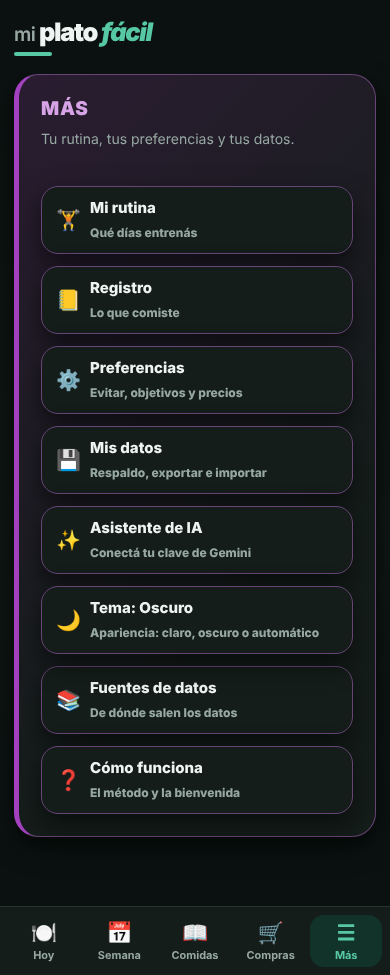
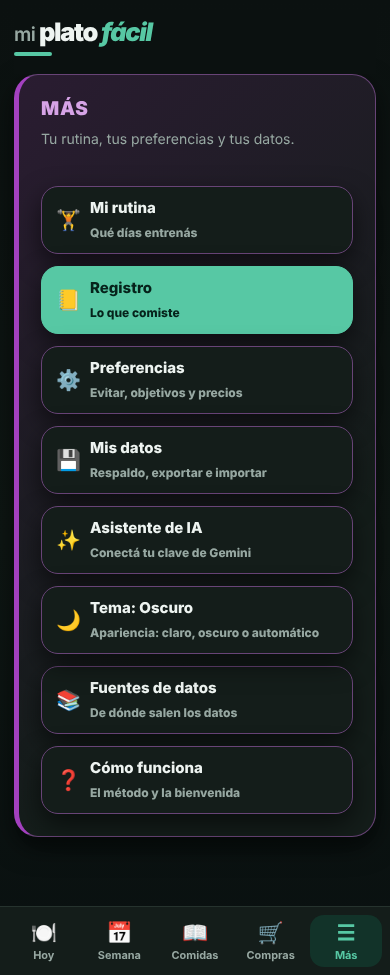
Etapa 53: principal de Compras fija y Más en verde
Claude-Session: https://claude.ai/code/session_013apjtg9s7WhVBtjMzXPnF4

Changed region(s): [[0.0923, 0.2462, 0.9231, 0.3692]]

diff --git a/fuente/estilos.css b/fuente/estilos.css
@@ -3820,8 +3820,10 @@ body:has(#gustoPregunta:not(.gusto-pregunta--cocina)){padding-bottom:72px}
 #ticketCargar{margin-top:8px}
 .ticket-fila{border:1px solid var(--line);border-radius:12px;padding:8px;margin:8px 0}
 /* Etapa 53: una sola acción principal por pestaña (Más: Registro). */
-.tool-button--primary,.tool-button--primary .tool-button__label,.tool-button--primary .tool-button__desc{background:var(--green);border-color:var(--green);color:var(--on-green)}
-.tool-button--primary .tool-button__label,.tool-button--primary .tool-button__desc{background:none}
+#home .tool-button.tool-button--primary,[data-theme="dark"] #home .tool-button.tool-button--primary,#home[data-home-tab="mas"] .tool-button.tool-button--primary{background:var(--green)!important;border-color:var(--green)!important;color:var(--on-green)!important}
+#home .tool-button.tool-button--primary .tool-button__label,#home .tool-button.tool-button--primary .tool-button__desc,#home .tool-button.tool-button--primary .tool-button__emoji{color:var(--on-green)!important;background:none!important}
+/* Compras: "Terminé de comprar" queda a la vista, fijo arriba de la barra de pestañas, mientras se recorre la lista. */
+#comprasBoughtBox{position:sticky;bottom:calc(var(--section-nav-h,76px) + 8px);z-index:6;padding:8px 0;background:linear-gradient(to top,var(--bg) 70%,transparent)}
 .hoy-aviso--comprar{display:flex;flex-wrap:wrap;align-items:center;gap:8px}
 .hoy-aviso--comprar .hoy-aviso__texto{flex:1 1 100%;min-width:0;overflow-wrap:anywhere}
 .hoy-aviso--comprar .button{flex:1 1 100%;max-width:100%}

diff --git a/index.html b/index.html
@@ -3821,8 +3821,10 @@ body:has(#gustoPregunta:not(.gusto-pregunta--cocina)){padding-bottom:72px}
 #ticketCargar{margin-top:8px}
 .ticket-fila{border:1px solid var(--line);border-radius:12px;padding:8px;margin:8px 0}
 /* Etapa 53: una sola acción principal por pestaña (Más: Registro). */
-.tool-button--primary,.tool-button--primary .tool-button__label,.tool-button--primary .tool-button__desc{background:var(--green);border-color:var(--green);color:var(--on-green)}
-.tool-button--primary .tool-button__label,.tool-button--primary .tool-button__desc{background:none}
+#home .tool-button.tool-button--primary,[data-theme="dark"] #home .tool-button.tool-button--primary,#home[data-home-tab="mas"] .tool-button.tool-button--primary{background:var(--green)!important;border-color:var(--green)!important;color:var(--on-green)!important}
+#home .tool-button.tool-button--primary .tool-button__label,#home .tool-button.tool-button--primary .tool-button__desc,#home .tool-button.tool-button--primary .tool-button__emoji{color:var(--on-green)!important;background:none!important}
+/* Compras: "Terminé de comprar" queda a la vista, fijo arriba de la barra de pestañas, mientras se recorre la lista. */
+#comprasBoughtBox{position:sticky;bottom:calc(var(--section-nav-h,76px) + 8px);z-index:6;padding:8px 0;background:linear-gradient(to top,var(--bg) 70%,transparent)}
 .hoy-aviso--comprar{display:flex;flex-wrap:wrap;align-items:center;gap:8px}
 .hoy-aviso--comprar .hoy-aviso__texto{flex:1 1 100%;min-width:0;overflow-wrap:anywhere}
 .hoy-aviso--comprar .button{flex:1 1 100%;max-width:100%}

diff --git a/pruebas/r6e53_orden.js b/pruebas/r6e53_orden.js
@@ -77,6 +77,11 @@
     ok(`R6-O-03 (${estado}) la acción principal mide al menos 44 px de alto`, TABS.every(([n]) => r[n].alto.every(h => h >= 43.5)), JSON.stringify(Object.fromEntries(TABS.map(([n]) => [n, r[n].alto]))));
     ok(`R6-O-04 (${estado}) no se eliminó ninguna función: la cantidad de botones de cada pestaña es la de antes (` + TABS.map(([n]) => n + " " + ANTES[estado][n]).join(", ") + ")", TABS.every(([n]) => r[n].botones === ANTES[estado][n]), JSON.stringify(Object.fromEntries(TABS.map(([n]) => [n, r[n].botones]))));
   }
+  // Compras: el botón principal va fijo arriba de la barra de pestañas (a la vista al abrir, sin bajar 3.000 px)
+  await H.abrirEn("2026-11-24", normal());
+  ev('openTab("compras")'); await espera(500);
+  const fijo = H.w().getComputedStyle($("comprasBoughtBox")).position, r = $("comprasBought").getBoundingClientRect();
+  ok("R6-O-03 en Compras 'Terminé de comprar' queda fijo (sticky) arriba de la barra de pestañas: a la vista al abrir aunque la lista sea larga", fijo === "sticky" && r.height >= 43.5 && r.bottom <= H.w().innerHeight && r.top >= 0, JSON.stringify([fijo, Math.round(r.top), Math.round(r.bottom), H.w().innerHeight]));
   // Semana con la pregunta de la semana nueva: solo "Repetir el plan" es principal
   await H.abrirEn("2026-11-30", normal());
   ev('openTab("semana")'); await espera(500);

diff --git a/docs/plan-rediseno.md b/docs/plan-rediseno.md
@@ -3422,9 +3422,10 @@ Rama `rediseno-6-etapa-52-ticket`. Ítems: T-01 a T-06 (solo con clave de Gemini
 
 #### Etapa 53 · Orden y limpieza (v20.8.0)
 Rama `rediseno-6-etapa-53-orden`. Ítems: O-01 a O-04.
-- Plan corto: `fuente/estilos.css` (el título del calendario ya no usa `text-transform: capitalize`), `38-selector-de-comida.js` (Recientes primero y el resto en Mis comidas), `31-hoy.js` (la acción principal de Hoy), `10-plan-semanal.js` (Semana con la pregunta de la semana nueva), `01-home.html` (Más) y la prueba nueva `pruebas/r6e53_orden.js` (14 pruebas). No toca claves ni datos.
+- Plan corto: `fuente/estilos.css` (el título del calendario ya no usa `text-transform: capitalize`), `38-selector-de-comida.js` (Recientes primero y el resto en Mis comidas), `31-hoy.js` (la acción principal de Hoy), `10-plan-semanal.js` (Semana con la pregunta de la semana nueva), `01-home.html` (Más) y la prueba nueva `pruebas/r6e53_orden.js` (15 pruebas). No toca claves ni datos.
 - ✅ R6-O-01: el calendario de entrenamiento decía "Noviembre De 2026" (el CSS ponía mayúscula a cada palabra); ahora dice "noviembre de 2026". La prueba recorre el texto visible de Hoy, Semana, Comidas, Compras, Más, el calendario, el Registro, Preferencias y el plan mensual (con `text-transform: capitalize` aplicado, como se ve en pantalla) y busca un mes con mayúscula en medio de una fecha y "De", "Del" o "Al" con mayúscula después de otra palabra: ninguno. Los encabezados que van en mayúsculas por diseño (como "HOY · MARTES, 24 DE NOVIEMBRE") no cuentan. La app ya escribía "Semana del 23/11/2026 al 29/11/2026" y "24 de noviembre" bien.
 - ✅ R6-O-02: al elegir o cambiar una comida, Recientes (4) va primero y Mis comidas y Mis recetas muestran solo el resto; con una búsqueda Recientes se esconde y cada comida sale una vez. Con 4 comidas o menos no hay Recientes. Sin más comidas que las recientes, Mis comidas dice "No hay más comidas guardadas de este tipo.".
-- ✅ R6-O-03: una sola acción principal (botón verde lleno, 44 px o más) a la vista al abrir cada pestaña. Propuesta, con captura de cada una (`principal-hoy`, `principal-semana`, `principal-comidas`, `principal-compras`, `principal-mas`): **Hoy**, "Lo comí" de la primera comida por anotar (pasa a la siguiente al anotarla; sin comidas ese día, "Elegir" el almuerzo); **Semana**, "Armame la semana" (con la semana completa pasa a "Rehacer semana", secundario, como desde la Etapa 24; con la pregunta "¿Repetís el plan o empezás de cero?", solo "Repetir el plan" es principal y "Armame la semana" pasa a secundario); **Comidas**, "+ Nueva"; **Compras**, "Terminé de comprar" (sin lista, "Armar mi semana"); **Más**, "Registro" (el mosaico va en verde lleno). Lo demás queda secundario. Antes: Hoy no tenía ninguna principal (con datos) y Más tampoco.
+- ✅ R6-O-03: una sola acción principal (botón verde lleno, 44 px o más) a la vista al abrir cada pestaña. Propuesta, con captura de cada una (`principal-hoy`, `principal-semana`, `principal-comidas`, `principal-compras`, `principal-mas`): **Hoy**, "Lo comí" de la primera comida por anotar (pasa a la siguiente al anotarla; sin comidas ese día, "Elegir" el almuerzo); **Semana**, "Armame la semana" (con la semana completa pasa a "Rehacer semana", secundario, como desde la Etapa 24; con la pregunta "¿Repetís el plan o empezás de cero?", solo "Repetir el plan" es principal y "Armame la semana" pasa a secundario); **Comidas**, "+ Nueva"; **Compras**, "Terminé de comprar" (queda fijo arriba de la barra de pestañas mientras se recorre la lista: sin esto estaba al final de una página de más de 3.000 px; sin lista, "Armar mi semana"); **Más**, "Registro" (el mosaico va en verde lleno; el revisor lo pidió porque el menú no tenía ninguna principal). Lo demás queda secundario. Antes: Hoy no tenía ninguna principal (con datos) y Más tampoco.
 - ✅ R6-O-04: botones visibles por pestaña, antes y después (no se eliminó ninguna función: solo se cambió cuál es la principal). Con el respaldo de ejemplo: Hoy 17 → 17, Semana 19 → 19, Comidas 26 → 26, Compras 54 → 54, Más 8 → 8. Sin datos: Hoy 11 → 11, Semana 14 → 14, Comidas 13 → 13, Compras 11 → 11, Más 8 → 8. La prueba lo comprueba con esos números.
 - (Hallazgo) La primera versión elegía la principal de Hoy con `classList` después de armar las filas y la app se colgaba al arrancar con datos (el cambio de clase vuelve a disparar un repintado); ahora la principal se decide antes, al crear cada fila.
+- Revisión de capturas (primera pasada, BLOQUEANTE): Compras y Más no mostraban una principal a la vista; se corrigieron (Compras: "Terminé de comprar" fijo abajo, captura `principal-compras` a pantalla completa de la ventana; Más: el mosaico "Registro" en verde, que antes no se veía porque otra regla del CSS le ganaba). Sugerencia anotada: en Hoy la principal es la primera comida por anotar (el desayuno si todavía no lo anotaste); no se elige por la hora del día para no depender del reloj.
